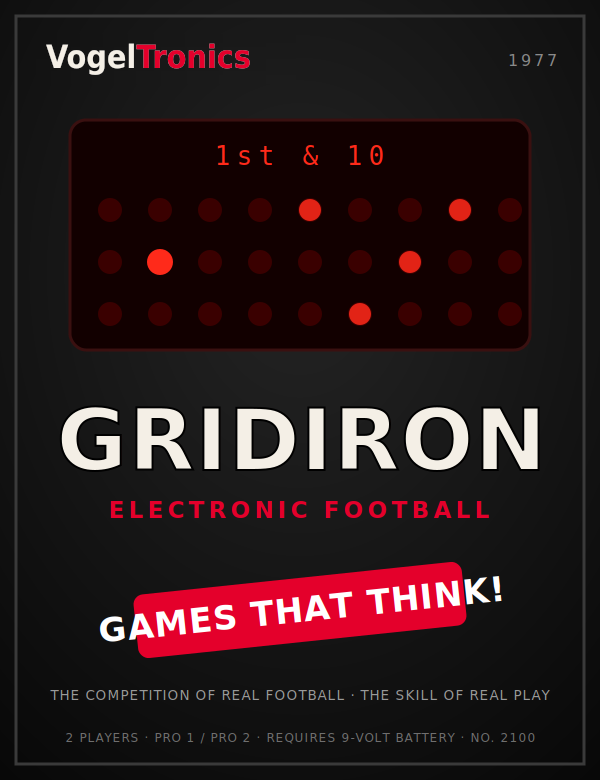
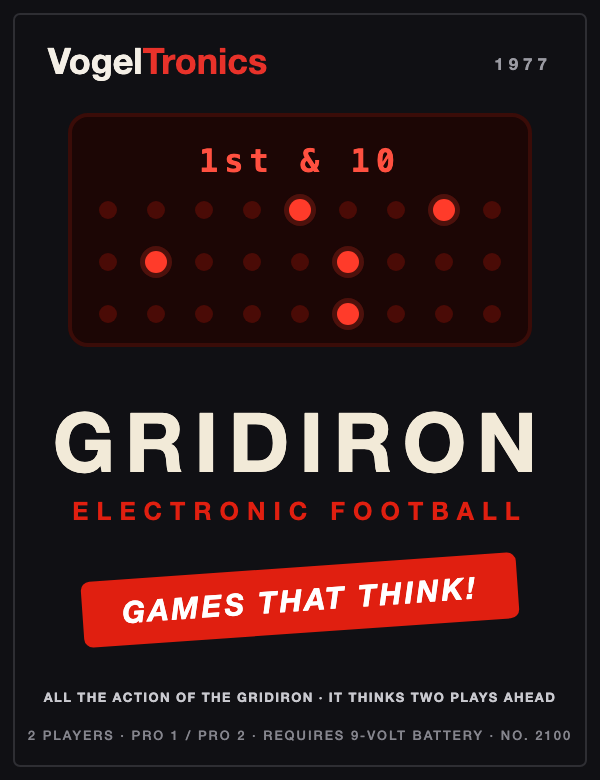
Remove everything that tread close to Mattel's copyrights and trade dress
- Cabinet: spec no longer says to keep the real unit's silhouette; now
  mandates a wholly original VogelTronics body (the Coleco/Entex pattern:
  same game, own hardware), with trade-dress distance an explicit brief
- Sound: the 'CHARGE' melody (real composition claim) is replaced by an
  original VogelTronics scoring fanfare; prompt forbids quoting real tunes
- Text: all verbatim manual quotes paraphrased (page cites kept); readout
  example numbers no longer mirror the manual's example
- Box art: regenerated from vogeltronics-history with original footer copy
  ('ALL THE ACTION OF THE GRIDIRON / IT THINKS TWO PLAYS AHEAD'); SVG and
  og:image regenerated to match

diff --git a/docs/gridiron-spec-and-prompt.md b/docs/gridiron-spec-and-prompt.md
@@ -1,6 +1,6 @@
 # VogelTronics *Gridiron* (Gridiron 1) — Web Recreation Spec + Build Prompt
 
-*A solo, keyboard-playable, browser homage to the 1977 Mattel Electronics Football, reskinned in the VogelTronics universe ("Games That Think!"). Vite + TypeScript, deployable on Netlify. This is a standalone game — **Gridiron 1, running only**. A separate future project, **Gridiron 2**, will reuse this engine and add passing (and whatever Mattel Football II introduced). All mechanics below come from the original 1977 Mattel manual.*
+*A solo, keyboard-playable, browser homage to the 1977 Mattel Electronics Football, rebuilt as an original product of the VogelTronics universe ("Games That Think!"). Vite + TypeScript, deployable on Netlify. This is a standalone game — **Gridiron 1, running only**. A separate future project, **Gridiron 2**, will reuse this engine and add passing (and whatever Mattel Football II introduced). All mechanics below come from the original 1977 Mattel manual.*
 
 ---
 
@@ -20,42 +20,42 @@ Because Gridiron 2 is a later, separate project, the one design rule that matter
 
 **Movement.** The running back moves **1 yard per key press** (discrete, not held). Arrow keys: **▲ / ▼** change lanes; **►** runs toward the goal (the original's forward key wears a two-headed **◄▶** glyph — "toward the opponent's goal," which in solo is always right). No backward running (authentic to this model). The **first direction press starts the play** — the clock starts and the tacklers begin to rush.
 
-**Pre-snap formation.** The runner (bright) lines up in **column 0, middle row** — "at the end of the field in front of his goal posts" (manual p. 6). The manual fixes no defensive formation — its two field diagrams show *different* scatters — so the defense lines up **semi-randomly each play** (seeded RNG): 5 defenders in distinct cells across **columns 2–8**, always at least one deep man in **columns 6–8** (the manual's "safety man"), never in columns 0–1. One blip per cell — defenders never overlap.
+**Pre-snap formation.** The runner (bright) lines up in **column 0, middle row** — the manual (p. 6) starts him at his own end of the field, centered before the goal posts. The manual fixes no defensive formation — its two field diagrams show *different* scatters — so the defense lines up **semi-randomly each play** (seeded RNG): 5 defenders in distinct cells across **columns 2–8**, always at least one deep man in **columns 6–8** (the manual's deep safety), never in columns 0–1. One blip per cell — defenders never overlap.
 
 **Tackling.** A tackle occurs whenever the runner and a defender occupy the **same cell — no matter who moved into whom** (front, side, or behind; this is also what keeps forward-mashing honest). On a tackle the **referee's whistle** sounds, the play ends, and **the tackler that made the hit blinks on/off** (~2 Hz, hard-capped below 3 flashes/sec for photosensitivity) until ST/SC is pressed. Under `prefers-reduced-motion` the blink is replaced by a **steady-bright** tackler (all others stay dim) — the information survives without flashing.
 
 **Field scroll.** If the runner clears the 9-yard window in one run, the computer returns him to the start and play continues (the field scrolled 9 yards).
 
-**Downs & scoring.** 4 downs to gain 10 yards for a first down. **Touchdown = 7**, **Field goal = 3**. Every score plays the **"CHARGE"** sound.
+**Downs & scoring.** 4 downs to gain 10 yards for a first down. **Touchdown = 7**, **Field goal = 3**. Every score plays the **VogelTronics scoring fanfare** — an original bugle-style riff with ballpark energy. (The real unit played the stadium "Charge!" melody, which carries a genuine composition claim; we deliberately don't quote it — or any other real tune.)
 
-**Kicking (K key, 4th down only; ignored on downs 1–3).** A kick travels **1–65 yards** (uniform, via the seeded RNG) — and that single roll *is* the punt-vs-FG decision, the simplest mechanism consistent with the manual's three statements (1–65 range; "the computer will automatically decide whether to PUNT or to make a FIELD GOAL"; "the closer you are to the goal, the better your chances"): if the kick **reaches the goal line (distance ≥ yards to goal)** it's a **made field goal** — **charge**, 3 points; if it falls short it's a **punt** — **two whistles**. There is **no missed-FG state**, and from beyond 65 out a kick is always a punt. On 4th down you may instead run; failing is a **turnover on downs** — **two whistles**. *Two whistles always mean: drive over, no points.*
+**Kicking (K key, 4th down only; ignored on downs 1–3).** A kick travels **1–65 yards** (uniform, via the seeded RNG) — and that single roll *is* the punt-vs-FG decision, the simplest mechanism consistent with the manual's three statements (p. 3: kicks travel 1–65 yards; the computer alone chooses punt vs field goal; your FG odds improve the nearer you are): if the kick **reaches the goal line (distance ≥ yards to goal)** it's a **made field goal** — **fanfare**, 3 points; if it falls short it's a **punt** — **two whistles**. There is **no missed-FG state**, and from beyond 65 out a kick is always a punt. On 4th down you may instead run; failing is a **turnover on downs** — **two whistles**. *Two whistles always mean: drive over, no points.*
 
 **Drive endings (solo restart rule).** With no opponent offense, every drive ends the same way: **the next drive starts 1st & 10 at your own 20** —
 
 | Drive ends by | Points | Sound | Next drive |
 |---|---|---|---|
-| Touchdown | +7 | charge | own 20 |
-| Made field goal | +3 | charge | own 20 |
+| Touchdown | +7 | fanfare | own 20 |
+| Made field goal | +3 | fanfare | own 20 |
 | Punt | 0 | two whistles | own 20 |
 | Turnover on downs | 0 | two whistles | own 20 |
 
-*Design note:* the manual itself restarts the receiving team **at its own 20 after a field goal** ("the other team takes possession of the ball on its own 20 yard line," p. 3) — the flat restart just extends that rule to every drive end. Restarting at the dead-ball spot would make 4th-down failure free, and mirroring field position would make going-for-it strictly beat punting by exactly the punt distance. The flat own-20 restart keeps the real 4th-down decision — in FG range, kick for a likely 3 vs go for 7 — and prices a dead drive in the currency that matters here: **clock**.
+*Design note:* the manual itself restarts the receiving team **at its own 20 after a field goal** (p. 3) — the flat restart just extends that rule to every drive end. Restarting at the dead-ball spot would make 4th-down failure free, and mirroring field position would make going-for-it strictly beat punting by exactly the punt distance. The flat own-20 restart keeps the real 4th-down decision — in FG range, kick for a likely 3 vs go for 7 — and prices a dead drive in the currency that matters here: **clock**.
 
-**Status readout (ST key).** Shows **DOWN — FIELD POSITION — YARDS TO GO** on the LED digits, and readies the field for the next play. The field-position window draws the 50-yard line as a small vertical **tack mark** and puts the number on the ball's side of it *(authentic display — manual p. 2)*: your own 35 reads **`35⊣`**, the opponent's 35 reads **`⊢35`** (so `2 · 35⊣ · 6` = 2nd down, your own 35, 6 to go); at exactly the 50, no marker — our default, the manual doesn't cover it. Rendered as LED segments, not text. **Goal-to-go rule:** inside 10 yards of the goal, the yards-to-go box shows **nothing** (manual: "less than ten yards to go to a TOUCHDOWN").
+**Status readout (ST key).** Shows **DOWN — FIELD POSITION — YARDS TO GO** on the LED digits, and readies the field for the next play. The field-position window draws the 50-yard line as a small vertical **tack mark** and puts the number on the ball's side of it *(authentic display — manual p. 2)*: your own 40 reads **`40⊣`**, the opponent's 40 reads **`⊢40`** (so `3 · 42⊣ · 4` = 3rd down, your own 42, 4 to go); at exactly the 50, no marker — our default, the manual doesn't cover it. Rendered as LED segments, not text. **Goal-to-go rule:** under 10 yards from the goal line, the yards-to-go box shows **nothing** (the manual keys this to distance-to-touchdown, not to the first-down marker — p. 2).
 
 **Score readout (SC key).** Shows **YOUR score — TIME REMAINING — 0**, and also readies the field for the next play. *You must press ST or SC after each play to set up the next one.*
 
-**Clock.** Four 15-minute quarters, but fast: a quarter lasts **~2½ real minutes** (~10-minute game) — the clock drops 0.1 game-minute per real second and **only ticks during a play**. It counts in **decimals** (7½ reads `7.5`) and shows `0.0` at quarter's end (the manual's `0:0`, rendered decimal for display consistency), then resets to 15 on the next play. If the clock hits zero mid-play, the play runs to completion — the quarter (or in Q4, the game) ends when the play resolves. Quarter transitions (manual p. 4): into Q2 and Q4, **field position, down, and yards to go carry over** the break ("same as at end of 1st quarter"); at halftime, **Q3 opens on a fresh 1st & 10 at your own 20** — the solo stand-in for the manual's second-half possession change. You start the game 1st & 10 on your own 20; press ST to roll into each new quarter. Game ends when the clock expires in the 4th.
+**Clock.** Four 15-minute quarters, but fast: a quarter lasts **~2½ real minutes** (~10-minute game) — the clock drops 0.1 game-minute per real second and **only ticks during a play**. It counts in **decimals** (7½ reads `7.5`) and shows `0.0` at quarter's end (the manual's `0:0`, rendered decimal for display consistency), then resets to 15 on the next play. If the clock hits zero mid-play, the play runs to completion — the quarter (or in Q4, the game) ends when the play resolves. Quarter transitions (manual p. 4): into Q2 and Q4, **field position, down, and yards to go carry over** the break; at halftime, **Q3 opens on a fresh 1st & 10 at your own 20** — the solo stand-in for the manual's second-half possession change. You start the game 1st & 10 on your own 20; press ST to roll into each new quarter. Game ends when the clock expires in the 4th.
 
 **Skill switch — OFF / PRO 1 / PRO 2.** PRO 1 = normal defense speed; **PRO 2 = defense reacts 50% faster**. Switching between PRO 1 and PRO 2 mid-game **ends the game**. New game = switch **OFF, then back**. The on-screen slide switch is always live, like the physical flip. **Keyboard 0 (OFF) works at any time** — it's the deliberate keyboard abort: press 0, then 1 or 2, for a fresh game without touching the pointer (0 sits isolated at the far right of the number row; accident risk is negligible). **Keyboard 1/2 work only between games** — on QWERTY they sit directly above W, and a stray reach for W must never flip PRO levels mid-drive.
 
-**Defensive AI.** Five tacklers home in on the runner but move unpredictably — "you never know when or where a tackler will move." Classic play: draw the defense to one sideline, then cut back — watch the deep "safety man."
+**Defensive AI.** Five tacklers home in on the runner but move unpredictably — the manual's whole pitch (p. 6) is that you can never be sure when or where the next tackler will shift. Classic play: draw the defense to one sideline, then cut back — and watch the deep safety.
 
 ---
 
-## 3. VogelTronics reskin
+## 3. VogelTronics identity (original industrial design)
 
-Keep the Mattel unit's silhouette and interaction; swap the identity.
+Keep the *interaction grammar* of a 1977 LED football handheld; give it a **wholly original VogelTronics body**. This is period practice, not evasion: Coleco, Entex, and the rest all shipped their own LED football units — different cases, colors, and button layouts, same game. Do **not** replicate any real unit's silhouette, speaker grille, faceplate layout, or graphics — trade-dress distance is part of the design brief. Era-authentic materials, original shape.
 
 - **Model:** GRIDIRON badge on the faceplate, plus a small "NO. 2100 · 1977" plate (catalog number per the VogelTronics history canon — it's on the box art).
 - **Maker mark:** VogelTronics vector logo (reuse the repo's SVG), "Games That Think!" tagline, "Elk Grove Village, ILL." molded line.
@@ -80,7 +80,7 @@ Keep the Mattel unit's silhouette and interaction; swap the identity.
 | Mute | **M** | speaker toggle |
 | Blip style (dash / round) | **B** | small faceplate toggle |
 
-On-screen keys must be **truly pressable**: commands fire on `pointerdown` (not `click`), with depress states, `:active` animation, and highlight-sync when the matching physical key is pressed. Every button **blurs after `pointerup`** — so Space can never re-trigger the last-clicked key — and controls get `touch-action: manipulation` (no double-tap zoom). **Tab is deliberately unbound**; it stays reserved for keyboard focus navigation. On mobile the on-screen keys are the primary input (thumb-sized), laid out like the real unit. Remember: **one yard per discrete press**, and the **first direction press of a play starts the clock and the rush**. Ignore OS key auto-repeat (`event.repeat`) — one yard requires one physical press; holding a key must never auto-run. **A** is intentionally unbound: the 1977 game has no backward running (Gridiron 2 will claim it).
+On-screen keys must be **truly pressable**: commands fire on `pointerdown` (not `click`), with depress states, `:active` animation, and highlight-sync when the matching physical key is pressed. Every button **blurs after `pointerup`** — so Space can never re-trigger the last-clicked key — and controls get `touch-action: manipulation` (no double-tap zoom). **Tab is deliberately unbound**; it stays reserved for keyboard focus navigation. On mobile the on-screen keys are the primary input (thumb-sized), laid out like the on-screen cabinet. Remember: **one yard per discrete press**, and the **first direction press of a play starts the clock and the rush**. Ignore OS key auto-repeat (`event.repeat`) — one yard requires one physical press; holding a key must never auto-run. **A** is intentionally unbound: the 1977 game has no backward running (Gridiron 2 will claim it).
 
 ---
 
@@ -99,7 +99,7 @@ On-screen keys must be **truly pressable**: commands fire on `pointerdown` (not 
 - `render/led.ts` — pure fn `Blip[] → 3×9 lit grid` (`off | dim | bright | blink`). The engine emits a display-agnostic blip list (`{row, col, intensity, blink}`); the renderer never knows which blip is the runner — Gridiron 2's ball and receivers will render here unchanged.
 - `render/status.ts` — the numeric ST readout (`DOWN | POS◄▶ | TO-GO`, goal-to-go blank) and SC readout (`SCORE | TIME | 0`) as LED digits.
 - `render/cabinet.ts` — SVG faceplate: bezel, LED window, GRIDIRON/VogelTronics badges, ST/SC/K keys, arrow keys, OFF/PRO1/PRO2 slide switch.
-- `audio/sound.ts` — `AudioContext` wrapper: `step()`, `whistle()` (tackle, single), `doubleWhistle()` (punt / turnover on downs), `charge()` (any score / made FG), `kick()`. Oscillators + gain envelopes only, **no audio files**. Lazily unlock on first gesture; honor mute.
+- `audio/sound.ts` — `AudioContext` wrapper: `step()`, `whistle()` (tackle, single), `doubleWhistle()` (punt / turnover on downs), `fanfare()` (any score / made FG — an **original** bugle-style riff, *never* the stadium "Charge!" melody), `kick()`. Oscillators + gain envelopes only, **no audio files**. Lazily unlock on first gesture; honor mute.
 - `input/keyboard.ts` + `input/buttons.ts` — normalize into the command enum; buttons fire on `pointerdown` and blur on `pointerup`.
 - `styles.css` — skin custom properties; honor `prefers-reduced-motion` (blink substitute — see Tackling); `touch-action: manipulation` on controls.
 
@@ -140,7 +140,7 @@ gridiron/
 
 ## 7. Scope
 
-**v1 = the whole game:** power switch (OFF/PRO1/PRO2), solo running plays on the 3×9 grid with 5 tacklers, tackler-blink, one-yard discrete movement, downs/yards/first downs, TD + 4th-down kick (single 1–65 roll: FG if it reaches the goal, else punt) + turnover-on-downs with the flat own-20 restart, ST/SC readouts with the goal-to-go rule and authentic ⊣/⊢ tack marker, fast decimal clock over 4 quarters with carryover + halftime reset, authentic whistle/charge sounds, pressable keys + WASD, dash-vs-round-blip display toggle, seeded RNG, VogelTronics skin, Netlify deploy.
+**v1 = the whole game:** power switch (OFF/PRO1/PRO2), solo running plays on the 3×9 grid with 5 tacklers, tackler-blink, one-yard discrete movement, downs/yards/first downs, TD + 4th-down kick (single 1–65 roll: FG if it reaches the goal, else punt) + turnover-on-downs with the flat own-20 restart, ST/SC readouts with the goal-to-go rule and authentic ⊣/⊢ tack marker, fast decimal clock over 4 quarters with carryover + halftime reset, authentic whistles + an original scoring fanfare, pressable keys + WASD, dash-vs-round-blip display toggle, seeded RNG, VogelTronics skin, Netlify deploy.
 
 **Nice-to-haves:** CRT/LED bloom toggle, in-session high score, box-art splash, mute/reduced-motion state encoded in the URL (no localStorage).
 
@@ -154,10 +154,12 @@ gridiron/
 
 ```text
 You are an expert TypeScript game developer. Build a complete, deployable
-browser game: GRIDIRON — a faithful, SOLO recreation of the 1977 Mattel
-Electronics Football handheld (running game only), reskinned for the fictional
-company VogelTronics (tagline "Games That Think!", Elk Grove Village, Illinois,
-1977). Affectionate parody only — invent no real trademarks. This is a
+browser game: GRIDIRON — a faithful SOLO recreation of the GAMEPLAY of the
+1977 Mattel Electronics Football handheld (running game only), delivered as an
+original product of the fictional company VogelTronics (tagline "Games That
+Think!", Elk Grove Village, Illinois, 1977). Affectionate parody only — invent
+no real trademarks, quote no real product's text or music, and copy no real
+product's appearance. This is a
 standalone game; a future SEPARATE project ("Gridiron 2") will reuse this
 engine and add passing, so keep engine code framework-free and free of
 running-only assumptions that would block a later passing state — but do NOT
@@ -198,8 +200,8 @@ SOLO PLAY
   reset (see CLOCK). The scoreboard's VISITOR window stays 0.
 
 MOVEMENT & PLAY FLOW
-- Pre-snap: the runner (bright) lines up in column 0, middle row ("in front
-  of his goal posts"). The defense lines up SEMI-RANDOMLY each play (seeded
+- Pre-snap: the runner (bright) lines up in column 0, middle row, at his own
+  end of the field. The defense lines up SEMI-RANDOMLY each play (seeded
   RNG): 5 defenders in distinct cells across columns 2-8, always at least one
   deep man in columns 6-8 (the "safety"), never in columns 0-1. One blip per
   cell — defenders never overlap.
@@ -214,11 +216,11 @@ MOVEMENT & PLAY FLOW
 
 RULES & SCORING
 - 4 downs to gain 10 yards for a first down. Touchdown = 7, Field goal = 3.
-  Every score plays a "CHARGE" sound.
+  Every score plays the SCORING FANFARE (see SOUND).
 - KICK (K key, 4th down ONLY; pressing K on downs 1-3 does nothing): the kick
   travels 1-65 yards (uniform, seeded RNG), and that single roll IS the
   punt-vs-FG decision: if the kick reaches the goal line (distance >= yards
-  to goal) it is a MADE FIELD GOAL — charge sound, 3 points; if it falls
+  to goal) it is a MADE FIELD GOAL — fanfare, 3 points; if it falls
   short it is a PUNT — two whistles. There is NO separate missed-FG state;
   "closer = likelier FG" emerges naturally, and from beyond 65 yards out a
   kick is always a punt. Running on 4th and failing = TURNOVER ON DOWNS:
@@ -236,7 +238,7 @@ READOUTS (rendered as LED digits)
 - ST (Status): show DOWN | FIELD POSITION | YARDS TO GO, and ready the field for
   the next play. The field-position window draws the 50-yard line as a small
   vertical tack mark and puts the number on the ball's side of it (authentic
-  1977 display): your own 35 reads 35⊣, the opponent's 35 reads ⊢35; at
+  1977 display): your own 40 reads 40⊣, the opponent's 40 reads ⊢40; at
   exactly the 50, no marker. Render the tack as LED segments, not text.
   GOAL-TO-GO RULE: inside 10 yards of the goal, the yards-to-go box shows
   nothing.
@@ -284,15 +286,22 @@ CONTROLS (keyboard AND pressable on-screen keys -> one command enum)
   matching key is pressed. Every button BLURS after pointerup — Space must
   never re-trigger the last-clicked button — and controls use touch-action:
   manipulation (no double-tap zoom). On mobile the on-screen keys are primary
-  input (thumb-sized), laid out like the real unit: arrow keys on the right,
+  input (thumb-sized), laid out like the cabinet: arrow keys on the right,
   ST/SC/K keys, and the slide switch.
 
 SOUND (Web Audio, oscillators only, NO audio files)
 - step (per move), single whistle (tackle), double whistle (punt / turnover
-  on downs), charge (any score or made FG), kick. Lazily unlock the
-  AudioContext on first user gesture; honor a mute toggle.
+  on downs), scoring fanfare (any score or made FG), kick. The fanfare must be
+  an ORIGINAL 5-7 note bugle-style riff — ballpark energy WITHOUT quoting the
+  stadium "Charge!" melody (it carries a real composition claim) or any other
+  real tune. Lazily unlock the AudioContext on first user gesture; honor a
+  mute toggle.
 
-LOOK (VogelTronics reskin, period-authentic 1977)
+LOOK (VogelTronics original design, period-authentic 1977)
+- Design an ORIGINAL cabinet: evoke the 1977 LED-handheld era the way Coleco
+  and Entex did with their own football units — same game, own body. Do NOT
+  replicate any real unit's casing, silhouette, speaker grille, or faceplate
+  layout.
 - Render the handheld cabinet as SVG: charcoal/woodgrain bezel, deep-maroon LED
   window, red LEDs (#ff2a1a bright / #5a0d08 dim / blink), cream/orange keycaps.
 - Badges: "GRIDIRON", "NO. 2100 - 1977", a VogelTronics vector logo, "Games
@@ -348,7 +357,7 @@ assumptions.
 
 ---
 
-*Fidelity sourced from the original 1977 Mattel Electronics Football instruction manual (`docs/Mattel-Football.pdf` — kept local and gitignored, not redistributed), cross-checked against the Handheld Games Museum. Adapted to solo play at the designer's direction; passing deferred to the separate Gridiron 2 project. The solo restart rule (own-20, extending the manual's post-FG rule), the single-roll kick model (the simplest mechanism consistent with the manual's kick description), the per-play defensive scatter (the manual fixes no formation), the halftime reset, and web-platform adaptations (T instead of Tab, between-games skill keys, pointerdown/blur behavior, reduced-motion blink substitute, seeded RNG) are deliberate design decisions, documented in §2, §4, and §5.*
+*Fidelity sourced from the original 1977 Mattel Electronics Football instruction manual (`docs/Mattel-Football.pdf` — kept local and gitignored, not redistributed), cross-checked against the Handheld Games Museum. Adapted to solo play at the designer's direction; passing deferred to the separate Gridiron 2 project. The solo restart rule (own-20, extending the manual's post-FG rule), the single-roll kick model (the simplest mechanism consistent with the manual's kick description), the per-play defensive scatter (the manual fixes no formation), the halftime reset, the original cabinet design and scoring fanfare (era-evoking; nothing copied from any real unit's trade dress, and no quotation of the "Charge!" melody), and web-platform adaptations (T instead of Tab, between-games skill keys, pointerdown/blur behavior, reduced-motion blink substitute, seeded RNG) are deliberate design decisions, documented in §2, §4, and §5.*
 
 ---
 
